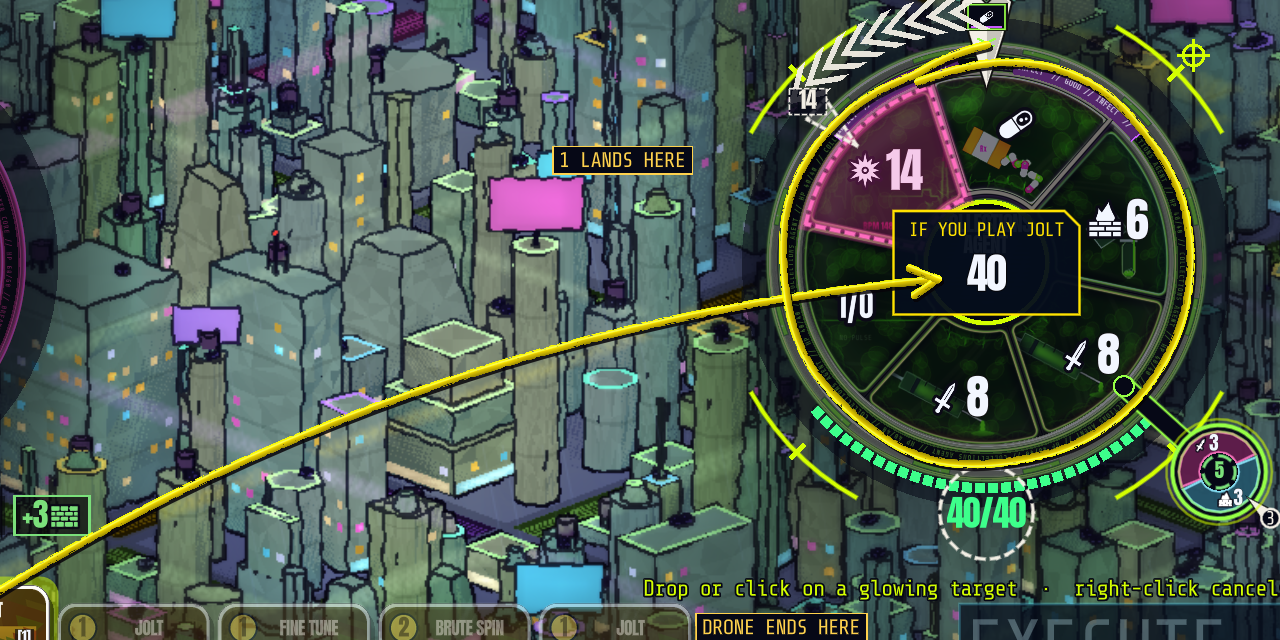
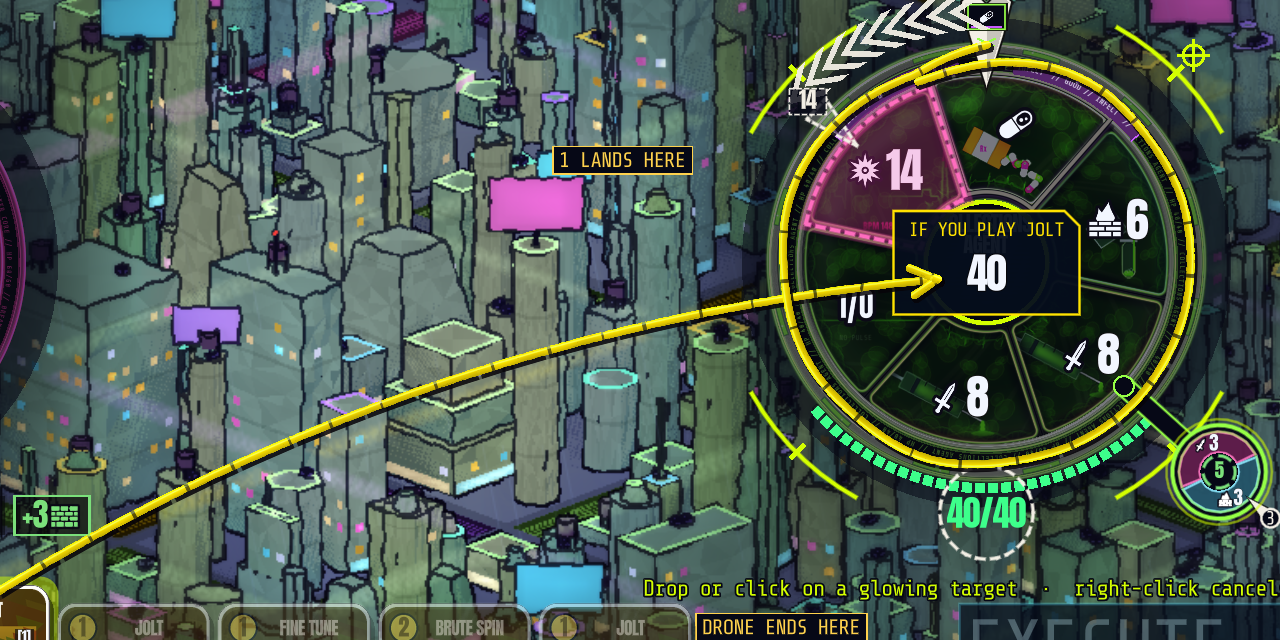
B1b fix b: opaque 9 px wax body with a visible under-shadow rim; seeded 2-4 px dropouts every 40-70 px to alpha 0.35 (D3 lock)

diff --git a/docs/DECISIONS.md b/docs/DECISIONS.md
@@ -114,6 +114,17 @@ at text 1.0 and 2.0). Test: `tests/unit/test_b1b_wax_pencil.gd`.
   aim loop, the TARGET circles (grid, route, HQ run, legend) and the raid dock circle all draw through it. Tests:
   `test_b1b_wax_pencil::test_a_loops_radius_jitter_is_seeded_and_about_three_percent`,
   `::test_the_loops_start_and_end_never_meet_cleanly`.
+- **Art-director fixes b (2026-10-06).** (1) The aim read thinner (~5 px) than the TARGET: its geometry was the same 9 px
+  (probed: line width 6 canvas px, no scale on its layer), but the wax's opaque body only covered the middle ~65 % of
+  the stroke at alpha ~0.77 (the bristles carried the rest), which vanished on the light street. The body is now
+  opaque across all but its ragged edge (`marker_stroke` core to 0.8-0.92 of the half width, side shading eased), so
+  every stroke reads its full 8-9 px at 1080p; the under-shadow copy is 2 px wider (`SHADOW_GROW_1080`) with a firmer
+  edge, so it shows as a dark rim under the arc on a light street. (2) The wax dropouts (D3 lock): one 2-4 px
+  stretch every 40-70 px (1080p px; period 55 with its centre jittered +-7.5) where the wax's alpha falls to 0.35,
+  seeded by a 32-bit integer hash the shader and `GreasePencilMark.dhash` / `dropout_factor` compute alike; the
+  shadow thins there too; words take fewer (period 90). Replaces the edge-only dropout that never showed. Tests:
+  `test_b1b_wax_pencil::test_wax_dropouts_every_40_to_70_px_two_to_four_px_long_to_alpha_0_35`,
+  `::test_the_shader_hash_is_the_scripts_hash`. Crops: `B1b_crop_aim.png`, `B1b_crop_target_only.png` (1:1, 1080p).
 
 ### 2026-10-06 — Designer rulings on the art-direction integration review
 The art-pass session reviewed main @ 175377de (`docs/concepts/INTEGRATION_REVIEW/REVIEW.md` on art-pass, D1–D25 and
